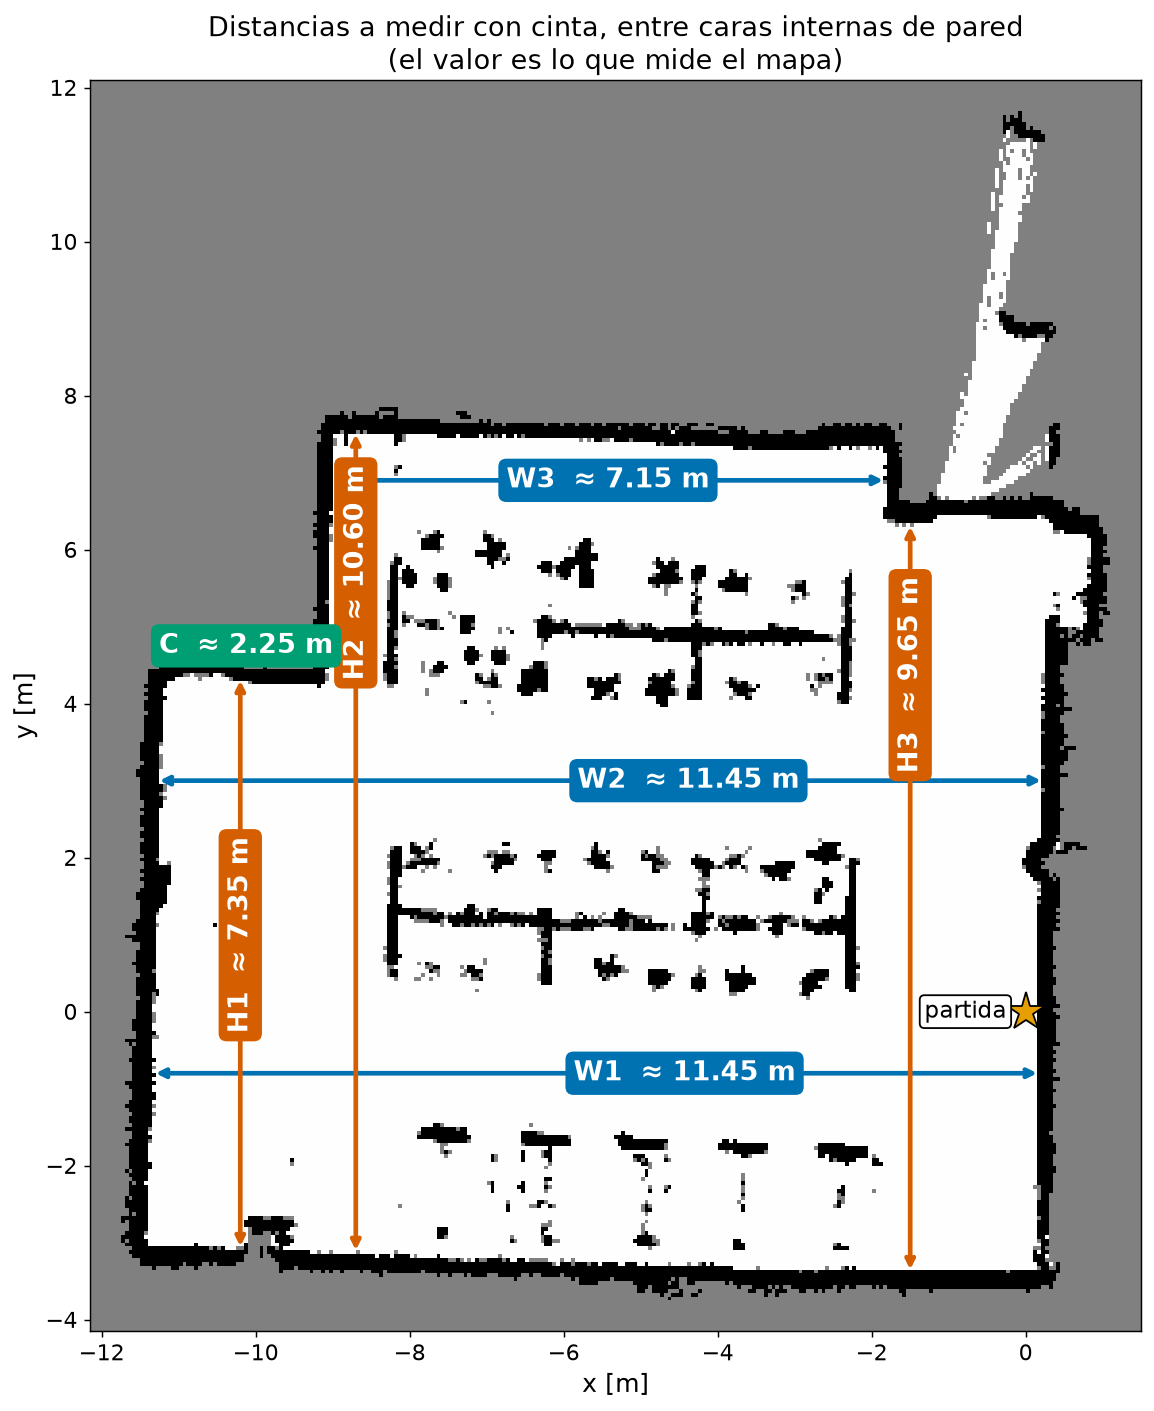
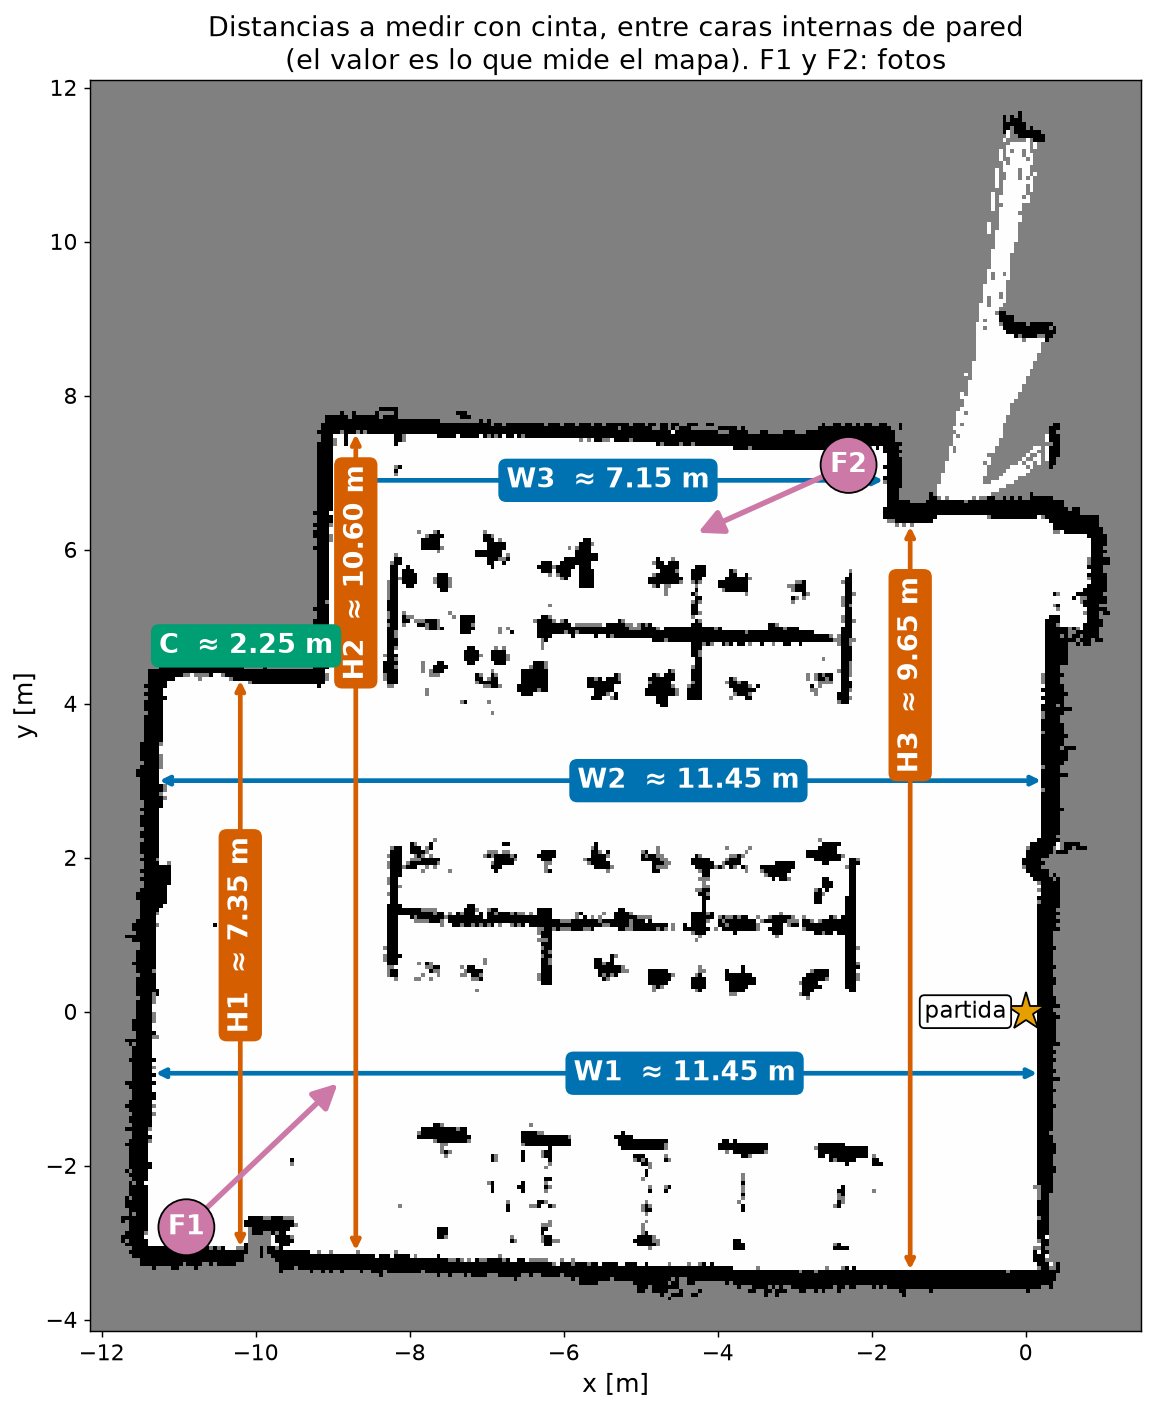
Mark the two photo positions on the measurement plan

diff --git a/informe/scripts/medidas_aula.py b/informe/scripts/medidas_aula.py
@@ -21,6 +21,8 @@ MAP_DIR = REPO / 'sesiones/20261116/mapa/intento3_corregido'
 OUTPUT = REPO / 'informe/figuras/medidas_aula.png'
 FREE = 254
 WALL_CELLS = 3
+# fotos: nombre, dónde pararse, hacia dónde apuntar
+PHOTOS = [('F1', (-10.9, -2.8), (-8.9, -0.9)), ('F2', (-2.3, 7.1), (-4.3, 5.2 + 1.0))]
 # posición de cada etiqueta a lo largo de su flecha, para que no se tapen
 LABEL_AT = {'W1': 0.6, 'W2': 0.6, 'W3': 0.5, 'H1': 0.55, 'H2': 0.83, 'H3': 0.8, 'C': 0.5}
 
@@ -98,11 +100,17 @@ def main():
     ax.plot(0, 0, marker='*', ms=22, color='#E69F00', mec='black')
     ax.text(-0.25, 0.0, 'partida', fontsize=13, ha='right', va='center',
             bbox=dict(boxstyle='round,pad=0.2', fc='white', ec='black'))
+    # desde dónde sacar las fotos del aula: posición y hacia dónde apuntar
+    for name, spot, target in PHOTOS:
+        ax.annotate('', xy=target, xytext=spot,
+                    arrowprops=dict(arrowstyle='-|>', color='#CC79A7', lw=3, mutation_scale=28))
+        ax.text(*spot, name, color='white', fontsize=15, fontweight='bold', ha='center', va='center',
+                bbox=dict(boxstyle='circle,pad=0.35', fc='#CC79A7', ec='black'))
     ax.set_xlabel('x [m]', fontsize=14)
     ax.set_ylabel('y [m]', fontsize=14)
     ax.tick_params(labelsize=12)
     ax.set_title('Distancias a medir con cinta, entre caras internas de pared\n'
-                 '(el valor es lo que mide el mapa)', fontsize=15)
+                 '(el valor es lo que mide el mapa). F1 y F2: fotos', fontsize=15)
     fig.savefig(OUTPUT, dpi=130, bbox_inches='tight')
 
 
